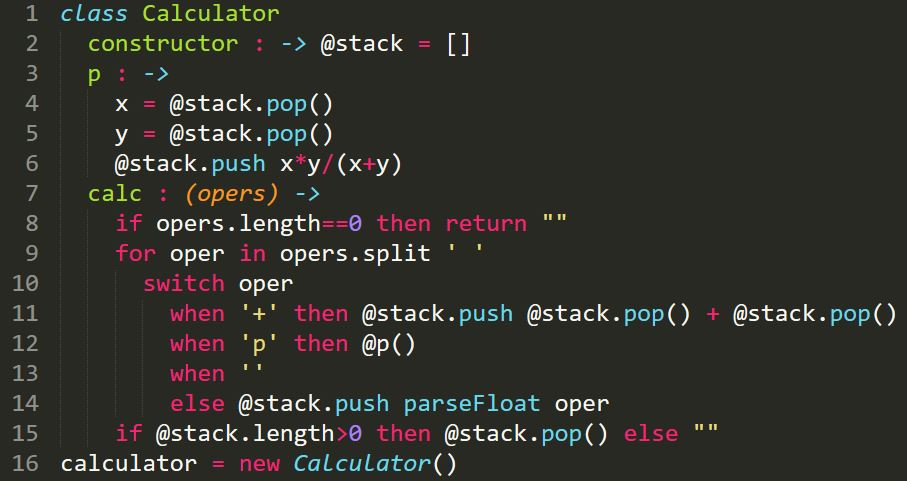
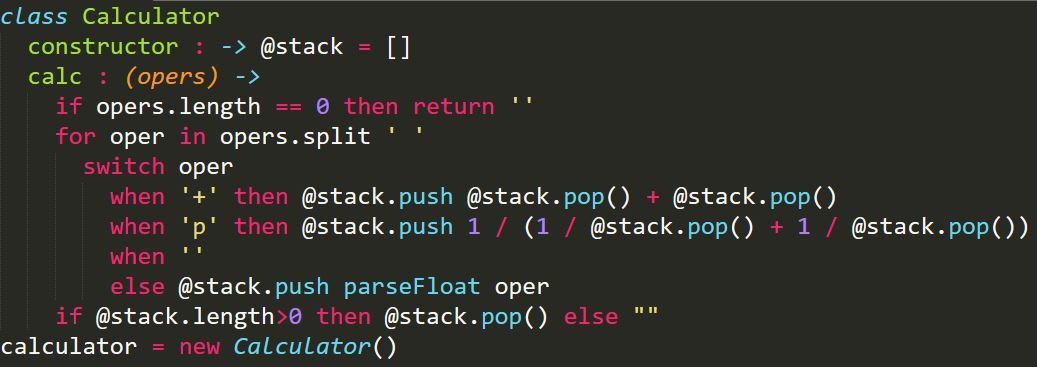
x

diff --git a/2018/080-Resistor Calculator/js/sketch.js b/2018/080-Resistor Calculator/js/sketch.js
@@ -15,19 +15,11 @@ Calculator = function () {
   }
 
   _createClass(Calculator, [{
-    key: 'p',
-    value: function p() {
-      var x, y;
-      x = this.stack.pop();
-      y = this.stack.pop();
-      return this.stack.push(x * y / (x + y));
-    }
-  }, {
     key: 'calc',
     value: function calc(opers) {
       var i, len, oper, ref;
       if (opers.length === 0) {
-        return "";
+        return '';
       }
       ref = opers.split(' ');
       for (i = 0, len = ref.length; i < len; i++) {
@@ -37,7 +29,7 @@ Calculator = function () {
             this.stack.push(this.stack.pop() + this.stack.pop());
             break;
           case 'p':
-            this.p();
+            this.stack.push(1 / (1 / this.stack.pop() + 1 / this.stack.pop()));
             break;
           case '':
             break;
